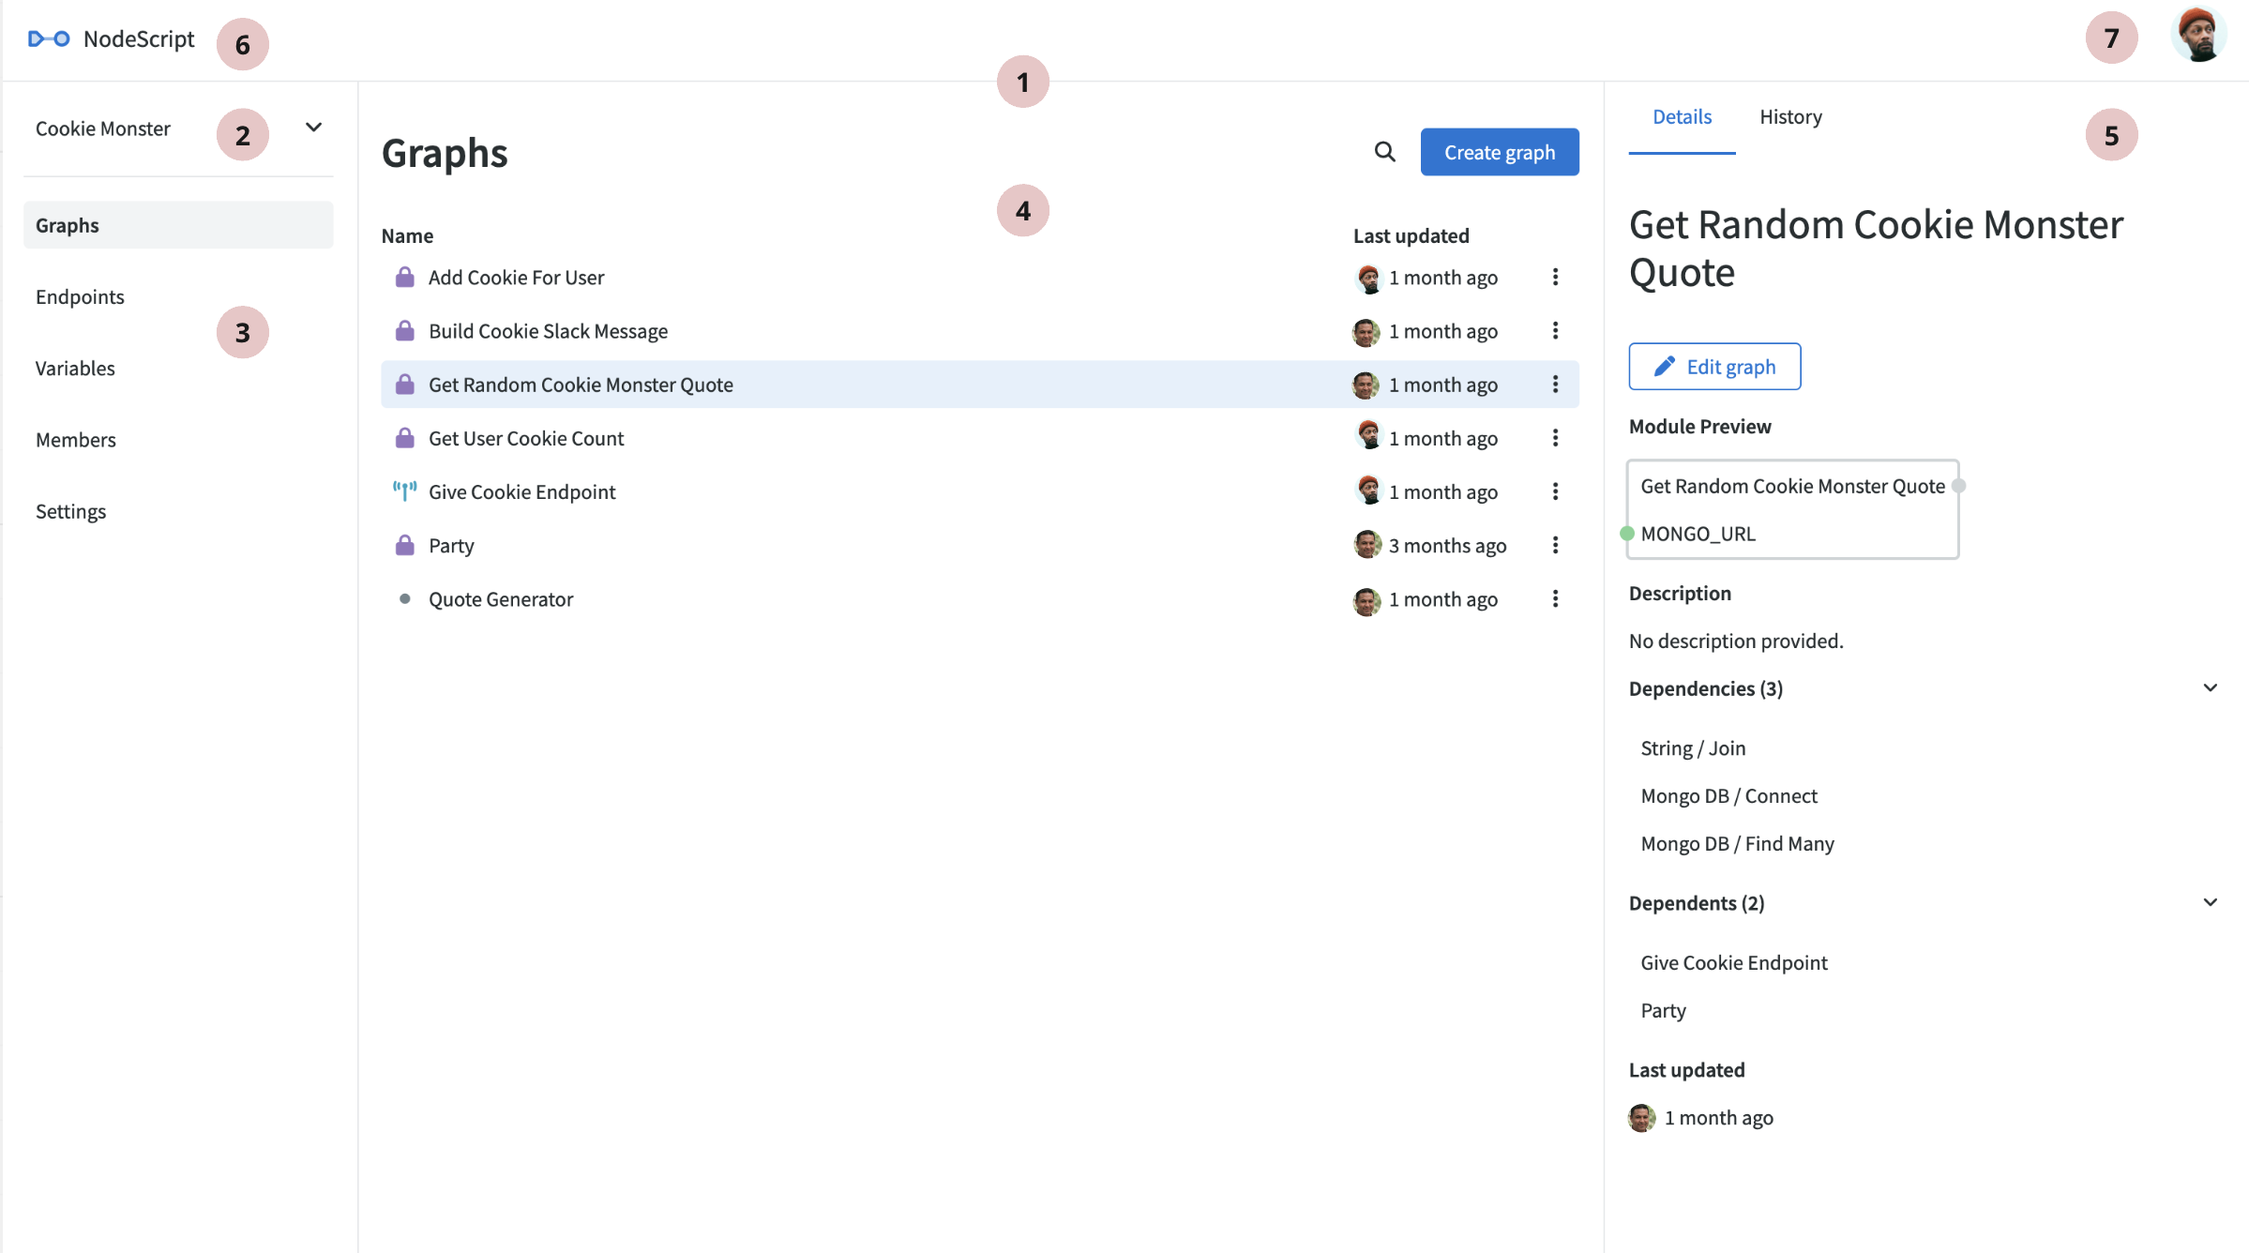
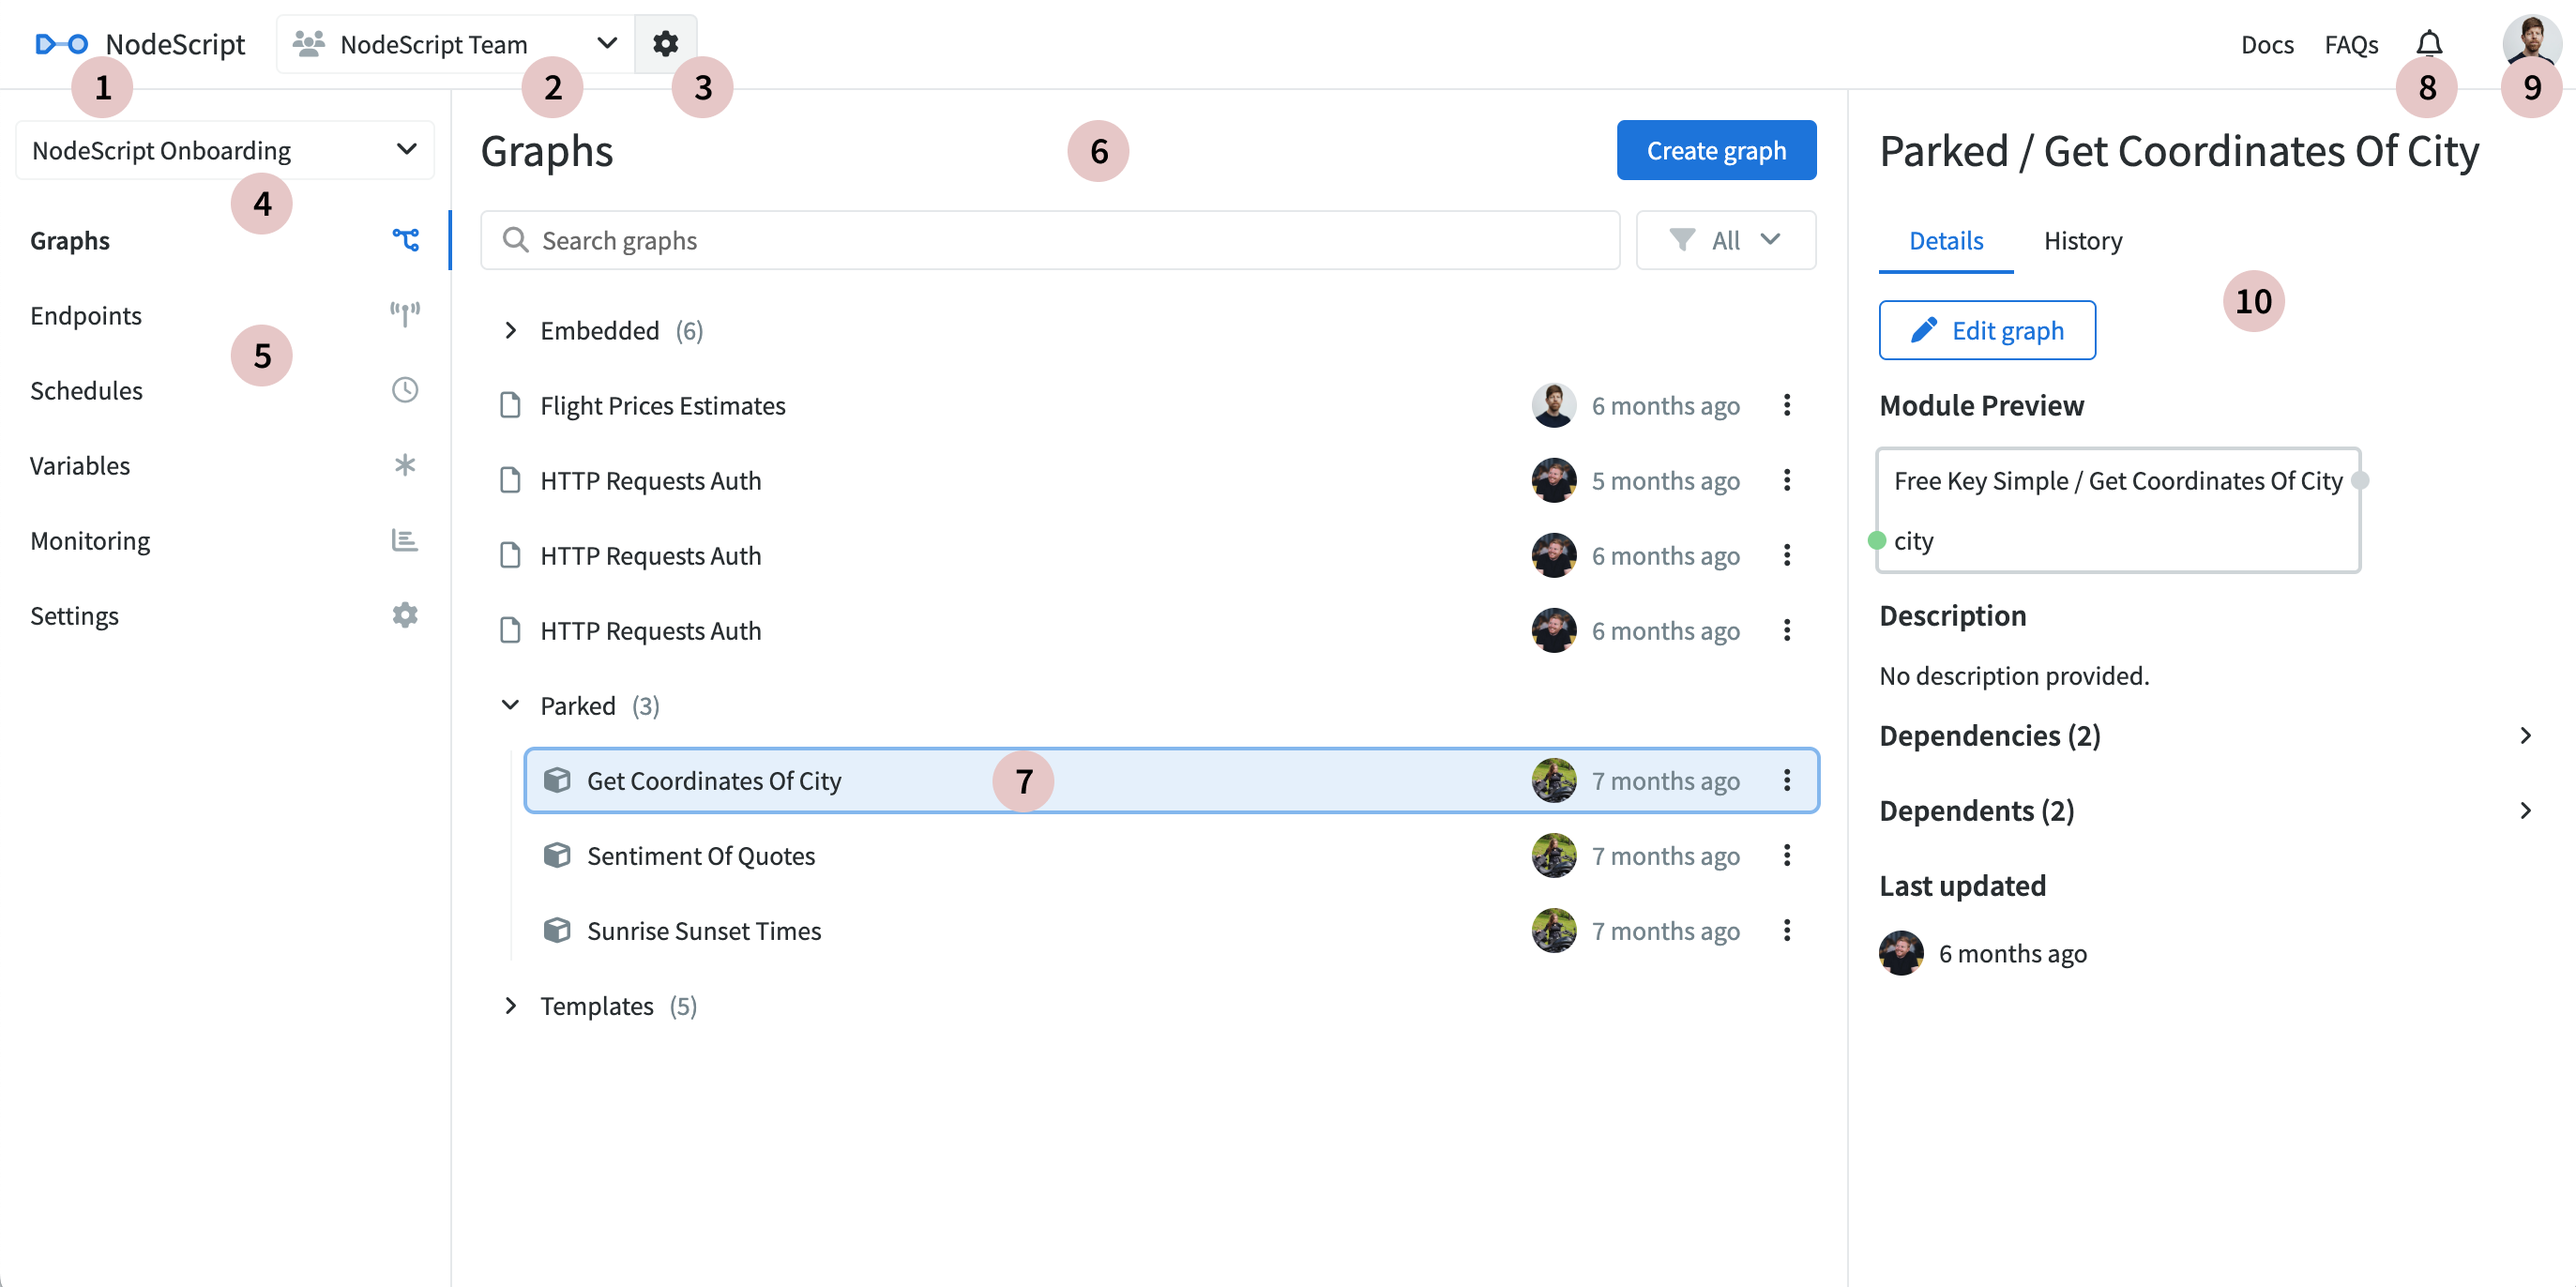
dashboard updated

diff --git a/src/docs/getting started.md b/src/docs/getting started.md
@@ -25,11 +25,16 @@ For example, when you click on Graphs in the Workspace navigation (3), a list of
 ![Dashboard navigation](./images/getting-started/dashboard.png)
 
 **Dashboard elements:**
-- 1 - Current workspace: Displays details and options related to the selected workspace
-- 2 - Workspace selection menu: A dropdown menu featuring all workspaces you have access to
-- 3 - Workspace navigation: Provides menu options and settings for the active workspace
-- 4 - Center container: Shows the content related to the selected option from the workspace navigation menu (3)
-- 5 - Right container: Displays information and data for the item currently selected in the center container (4)
-- 6 - Home: Click the icon in the top right to return to or refresh the workspace
-- 7 - User settings: Offers sign-out and profile options
+- 1 - Home: Click the icon in the top right to return to or refresh the workspace.
+- 2 - Organisation selection: A dropdown of all the organizations you have access to.
+- 3 - Organisation settings: Edit the name, members, workspaces and billing information of the organization.
+- 4 - Workspace selection menu: A dropdown menu featuring all workspaces you have access to within the selected organization.
+- 5 - Workspace navigation: Lists the pages and features within this workspace.
+- 6 - Center container: Shows the content related to the selected option from the workspace navigation menu (5)
+- 7 - List items: Most pages are lists (Graphs, endpoints, Variables etc) click on an item to open it or right click to view the action menu.
+- 8 - Notifications: Alerts and news from all areas of NodeScript that concern you and your content.
+- 9 - User settings: Offers sign-out and profile options
+- 10 - Right container: Displays information and data for the item currently selected in the center container (6)
+
+
 
